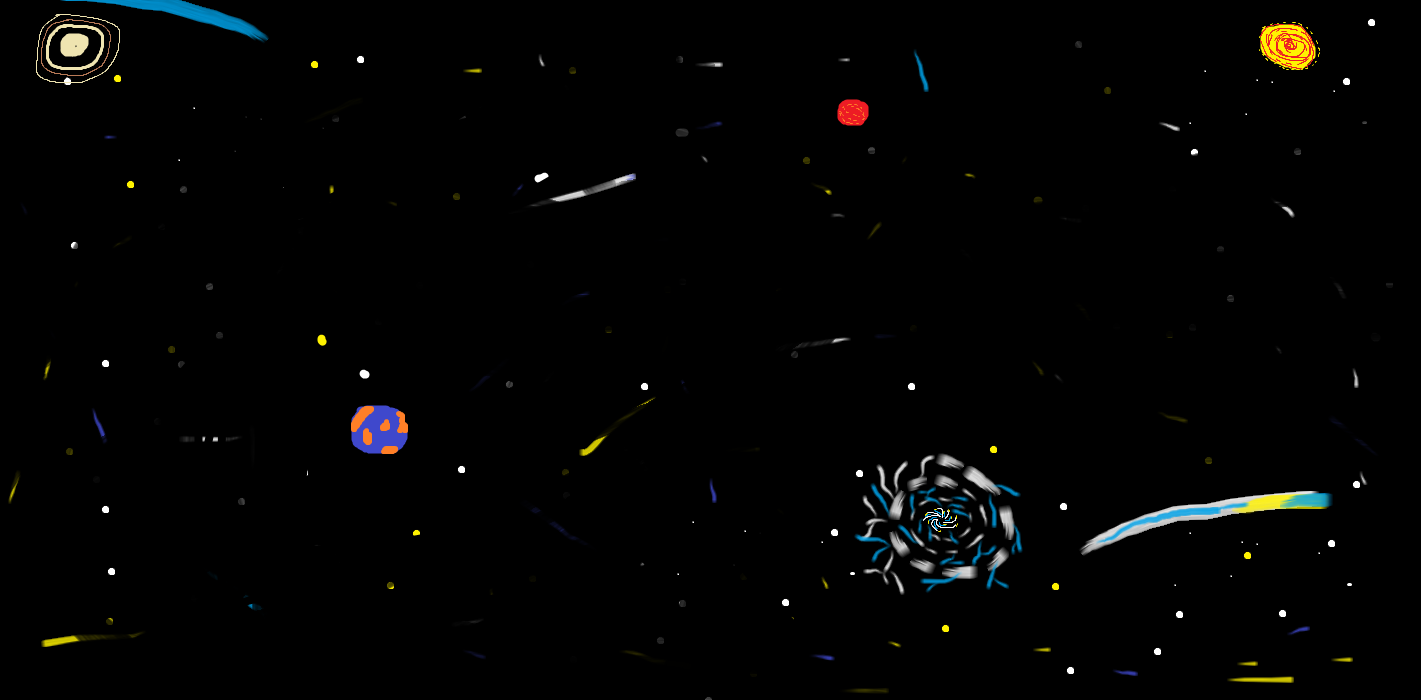
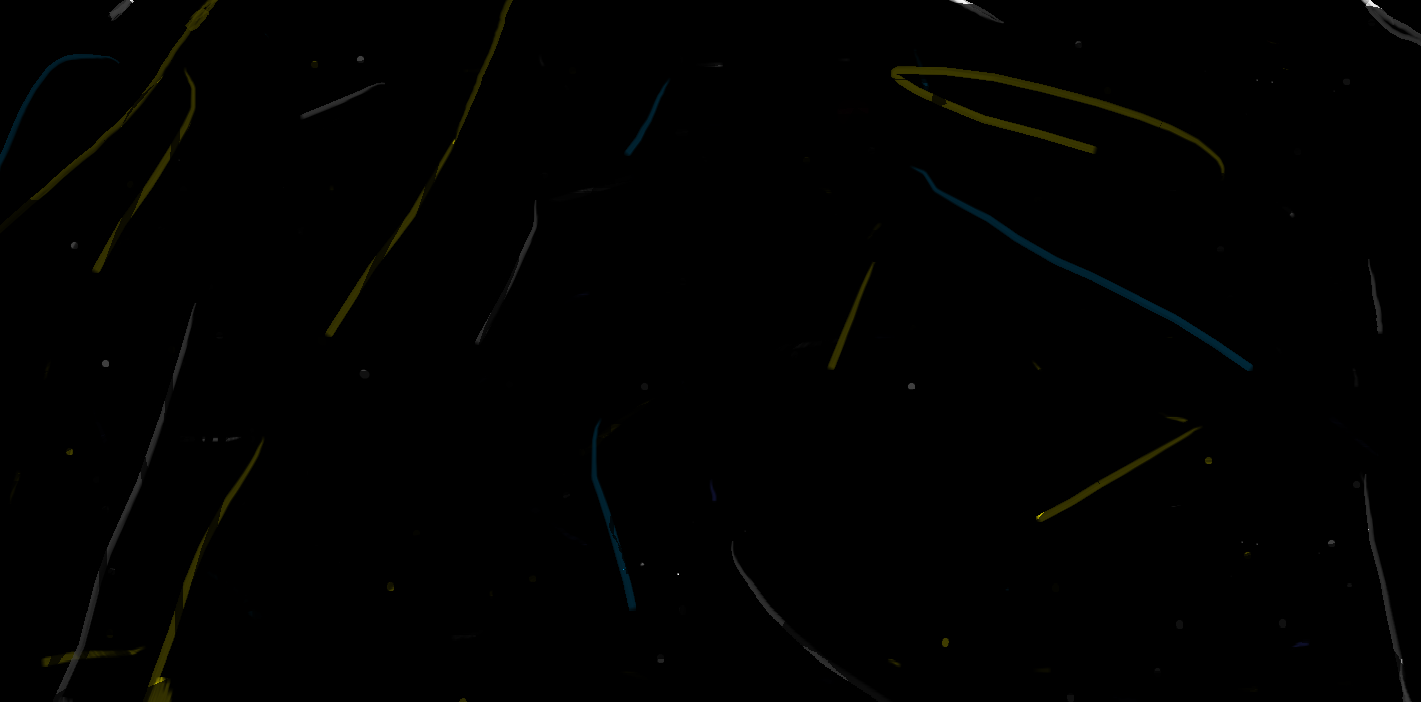
Space background and animation added

diff --git a/SpaceBird.js b/SpaceBird.js
@@ -13,12 +13,7 @@ function Barrier(reverse = false) {
     this.element.appendChild(reverse ? shape : cover)
     this.element.appendChild(reverse ? cover : shape)
 
-    const bg = newElement('img', 'draw')
-    bg.src = 'Imgs/drawing1.png'
-    shape.appendChild(bg)
-    
     this.setNewWidth = newWidth => shape.style.width = `${newWidth}px`
-    this.setBg = nW => bg.style.width =  `${nW}px`
 }
 
 function PairOfBarriers(width, opening, y) {
@@ -35,9 +30,6 @@ function PairOfBarriers(width, opening, y) {
         const rightWidth = width - opening - leftWidth
         this.leftSide.setNewWidth(leftWidth)
         this.rightSide.setNewWidth(rightWidth)
-        this.leftSide.setBg(leftWidth)
-        this.rightSide.setBg(rightWidth)
-
     }
 
     this.getY = () => parseInt(this.element.style.bottom.split('px')[0])
@@ -73,13 +65,45 @@ function PairSet(width, height, opening, space, notificatePoint) {
             if (crossedMiddle) notificatePoint()
         })
     }
-} 
+}
+
+function Galaxy(n) {
+    this.element = newElement('img', 'galaxy')
+    this.element.src = `imgs/galaxy${n}.png`
+
+    this.element.style.bottom = "700px"
+
+    this.getY = () => parseInt(this.element.style.bottom.split('px')[0])
+    this.setY = y => this.element.style.bottom = `${y}px`
+    this.getHeight = () => this.element.clientHeight
+}
+
+function Voiding() {
+    this.galaxys = [
+        new Galaxy(1),
+        new Galaxy(2),
+        new Galaxy(1)
+    ]
+
+    const displacement = 25
+    this.animate = () => {
+        
+        this.galaxys.forEach(g => {
+            
+            g.setY(g.getY() - displacement)
+            
+            if (g.getY() < 0 ){
+                g.setY(1400)
+            }
+        })
+    }
+}
 
 function Bird(gameWidth) {
     let flying = false
 
     this.element = newElement('img', 'bird')
-    this.element.src = 'Imgs/passaro.png'
+    this.element.src = 'Imgs/passaro1.png'
 
     this.getX = () => parseInt(this.element.style.left.split('px')[0])
     this.setX = x => this.element.style.left = `${x}px`
@@ -89,6 +113,8 @@ function Bird(gameWidth) {
 
     this.animate = () => {
         const changeX = this.getX() + (flying ? 8 : -8)
+        const n = flying ? 1 : 2
+        this.element.src = `imgs/passaro${n}.png`
         const maxWidth = gameWidth - this.element.clientWidth
 
         if (changeX <= 0)
@@ -142,6 +168,9 @@ function FlappyBird() {
     const width = gameArea.clientWidth
     const height = gameArea.clientHeight
 
+    const empt = new Voiding()
+    empt.galaxys.forEach(g => gameArea.appendChild(g.element))
+
     const progress = new Progress()
     const pairSet = new PairSet(width, height, 300, 600,
         () => progress.updatePoints(++points))
@@ -155,6 +184,7 @@ function FlappyBird() {
         const timer = setInterval(() => {
             pairSet.animate()
             bird.animate()
+            empt.animate()
 
             if (colided(bird, pairSet)){
                 clearInterval(timer)

diff --git a/CSS/SpaceBird.css b/CSS/SpaceBird.css
@@ -11,9 +11,11 @@ html {
     height: 100%;
 }
 
+
 body {
     margin: 0;
-    background-color: #191970;
+    background-image: url('../Imgs/galaxy.png');
+    background-size: 100%;
     color: #fff;
     height: 100%;
     font-family: 'Arial';
@@ -29,7 +31,7 @@ body {
 
 [wm-flappy] {
     position: relative;
-    border: 5px solid #fff;
+    border: 5px solid #fffa;
     height: 700px;
     width: 1200px;
     margin: 15px;
@@ -37,14 +39,11 @@ body {
     overflow: hidden;
 }
 
-.bg {
+.galaxy {
+    position: relative;
     height : 700px;
     width : 1200px;
-}
-
-.draw {
-    height: 143px;
-    width: 300px;
+    opacity: 50%;
 }
 
 .bird {
@@ -72,16 +71,16 @@ body {
 .barrier .cover {
     height: 170px;
     width: 40px;
-    background: linear-gradient(90deg, #358D5B, #A7A9A8);
-    border: 3px solid darkblue;
+    background: linear-gradient(90deg, #00544e, #00a398);
+    border: 3px solid #1e0369;
 }
 
 .barrier .shape {
     height: 150px;
     width: 300px;
-    background: linear-gradient(90deg, #01018B, #8B018B);
-    border-top: 3px solid darkblue;
-    border-bottom: 3px solid darkblue;
+    background: linear-gradient(90deg,  #450e11, #cc000b, #7d0000);
+    border-top: 3px solid #6229ff;
+    border-bottom: 3px solid #6229ff;
 }
 
 .progress {

diff --git a/SpaceBird.html b/SpaceBird.html
@@ -8,7 +8,6 @@
 <body class="content">
     <h1>Fly Away</h1>
     <div wm-flappy>
-        <img class="bg" src="imgs/galaxy.png" alt="galaxy">
     </div>
     <script src="SpaceBird.js"></script>
 </body>
